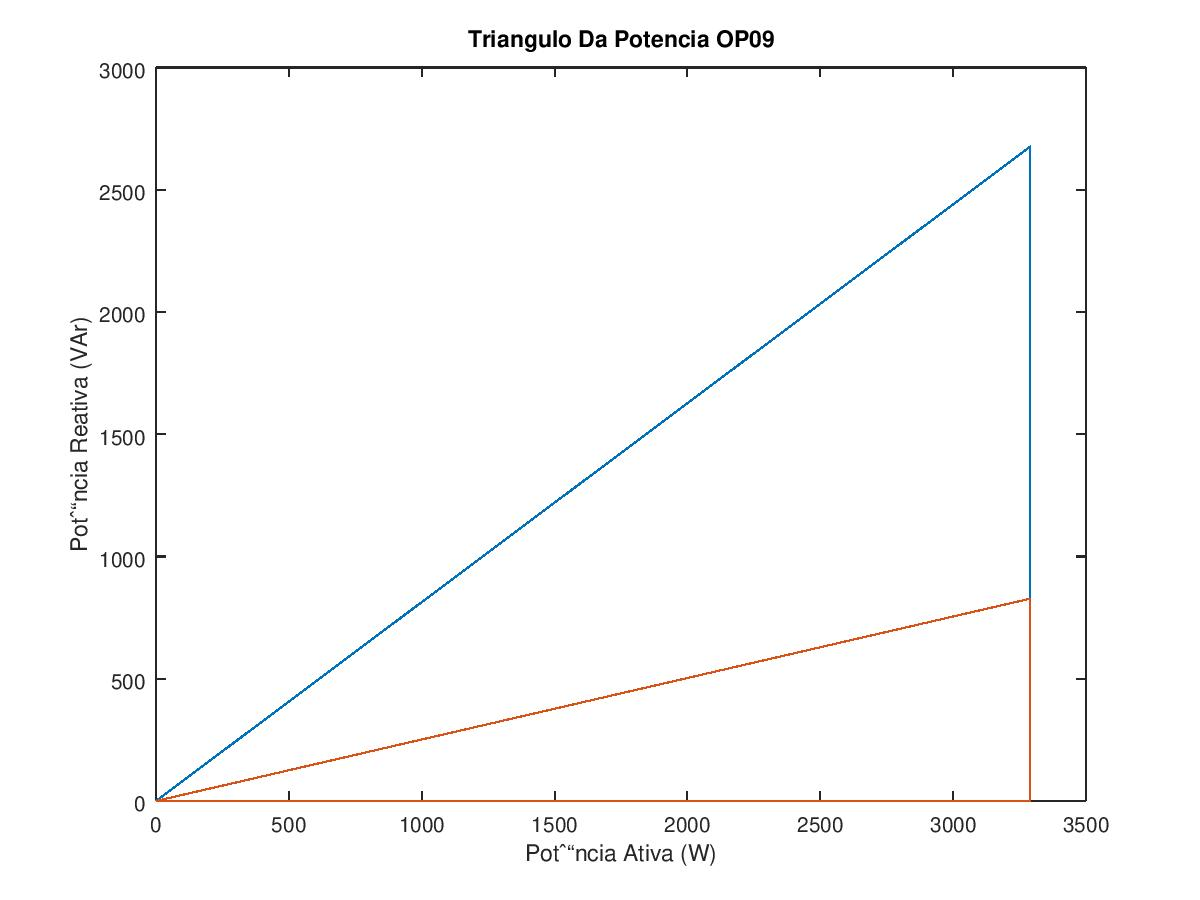
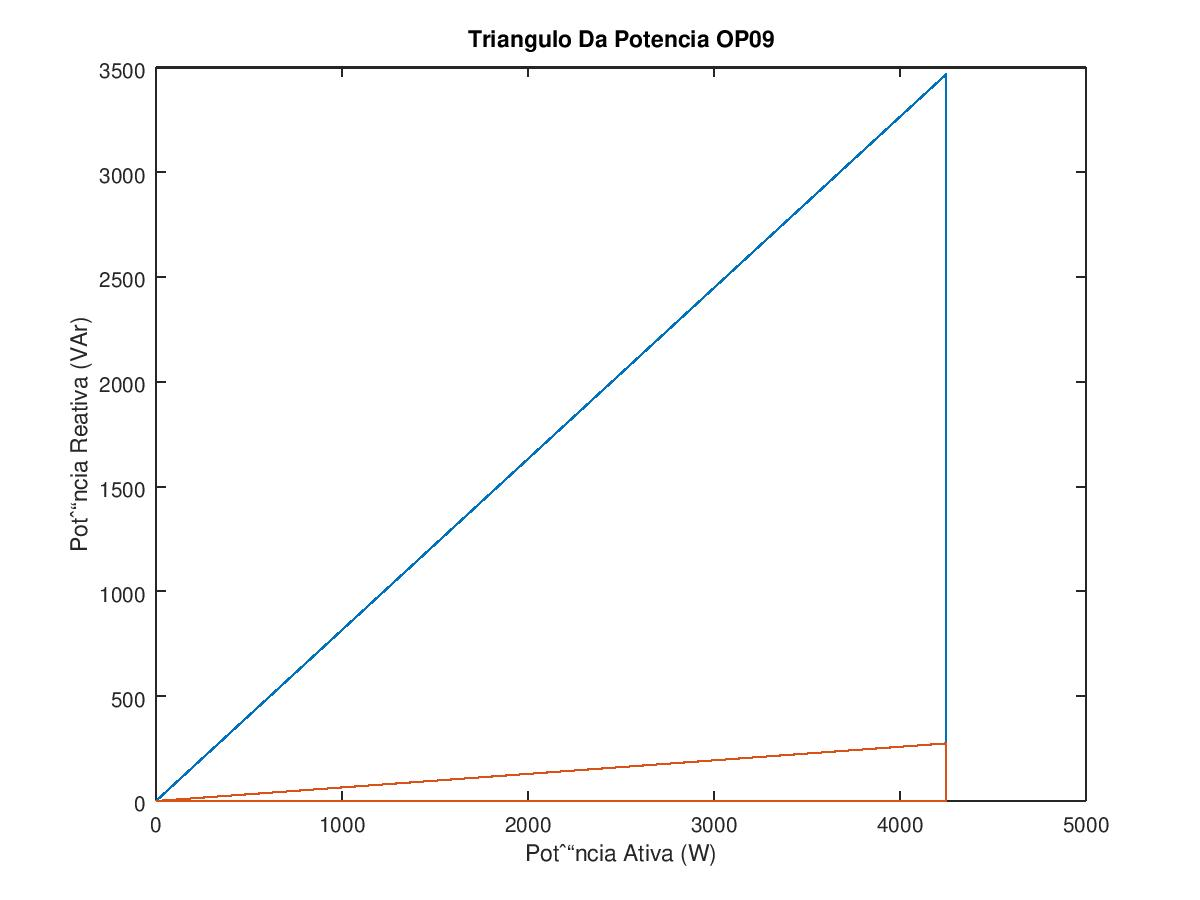
~..5

diff --git a/octave_LCE/Atividade8.m b/octave_LCE/Atividade8.m
@@ -1,9 +1,13 @@
-clear
+clear all
 clc
 
 %dados da questao
-tensao = 220;
-frequencia = 60;
+V = 220; % volts
+f = 60;  % hertz
+
+%###############################################################################
+% MUDANDO OS VALORES DOS MOTORES PARA OBTER O RESULTADO DESEJADO NA COMBINAÇAO
+%###############################################################################
 
 %potencia aderida
 pot_A = 2206.5;
@@ -27,14 +31,32 @@ P50_B = (pot_B*(50/100))/(61/100);
 P75_B = (pot_B*(75/100))/(65/100);
 P100_B = (pot_B*(100/100))/(66/100);
 
+################################################################################
 %carga S = P + iQ por rendimento% do motor
-S50_A = P50_A*fp50_A + i*P50_A*sin(acos(fp50_A));
-S75_A = P75_A*fp75_A + i*P75_A*sin(acos(fp75_A));
-S100_A = P100_A*fp100_A + i*P100_A*sin(acos(fp100_A));
+## S50_A = P50_A*fp50_A + i*P50_A*sin(acos(fp50_A));
+## S75_A = P75_A*fp75_A + i*P75_A*sin(acos(fp75_A));
+## S100_A = P100_A*fp100_A + i*P100_A*sin(acos(fp100_A));
 
-S50_B = P50_B*fp50_B + i*P50_B*sin(acos(fp50_B));
-S75_B = P75_B*fp75_B + i*P75_B*sin(acos(fp75_B));
-S100_B = P100_B*fp100_B + i*P100_B*sin(acos(fp100_B));
+## S50_B = P50_B*fp50_B + i*P50_B*sin(acos(fp50_B));
+## S75_B = P75_B*fp75_B + i*P75_B*sin(acos(fp75_B));
+## S100_B = P100_B*fp100_B + i*P100_B*sin(acos(fp100_B));
+
+abs_S50_A = P50_A/fp50_A;
+abs_S75_A = P75_A/fp75_A;
+abs_S100_A = P100_A/fp100_A;
+
+abs_S50_B = P50_B/fp50_B;
+abs_S75_B = P75_B/fp75_B;
+abs_S100_B = P100_B/fp100_B;
+
+S50_A = abs_S50_A*exp(j*(acos(fp50_A)));
+S75_A = abs_S75_A*exp(j*(acos(fp75_A)));
+S100_A = abs_S100_A*exp(j*(acos(fp100_A)));
+
+S50_B = abs_S50_B*exp(j*(acos(fp50_B)));
+S75_B = abs_S75_B*exp(j*(acos(fp75_B)));
+S100_B = abs_S100_B*exp(j*(acos(fp100_B)));
+
 
 %carga S das respectivas combinações
 OP01 = S50_A + S50_B;
@@ -46,6 +68,7 @@ OP06 = S75_A + S100_B;
 OP07 = S100_A + S50_B;
 OP08 = S100_A + S75_B;
 OP09 = S100_A + S100_B;
+disp('Vector do valor S das combinacoes')
 vector_OP = [OP01 OP02 OP03 OP04 OP05 OP06 OP07 OP08 OP09]'
 
 %valor absoluto das cargas
@@ -58,6 +81,7 @@ S06 = abs(OP06);
 S07 = abs(OP07);
 S08 = abs(OP08);
 S09 = abs(OP09);
+disp('Vector do valor abs de S das combinacoes')
 vector_S = [S01 S02 S03 S04 S05 S06 S07 S08 S09]'
 
 %fatores de potencias de cada carga
@@ -70,6 +94,7 @@ FP06 = real(OP06)/S06;
 FP07 = real(OP07)/S07;
 FP08 = real(OP08)/S08;
 FP09 = real(OP09)/S09;
+disp('Vector do FS das combinacoes')
 vector_FP = [FP01 FP02 FP03 FP04 FP05 FP06 FP07 FP08 FP09]'
 
 %potencia reativa das cargas
@@ -82,15 +107,19 @@ Q06 = imag(OP06);
 Q07 = imag(OP07);
 Q08 = imag(OP08);
 Q09 = imag(OP09);
+disp('Vector Q das combinacoes')
 vector_Q = [Q01 Q02 Q03 Q04 Q05 Q06 Q07 Q08 Q09]'
 
 %calculando o valor da capacitancia para corrigir a potencia reativa
-capacitor_correcao_geral = (vector_Q)/2*pi*frequencia*tensao^2
+disp('Vector das compensacoes dos capacitores')
+capacitor_correcao_geral = (vector_Q)/2*pi*f*V^2
 
 %capacitancia da correcao de menor valor de FP
+disp('capacitor da operacao 1, com menor valor de FP')
 c_correcao_01 = capacitor_correcao_geral(1,1)
 
 %corrigindo todas as cargas em paralelo com a capacitancia de menor valor de FP
+disp('Vector da correcao com uso do capacitor da operacao 1, com menor valor de FP')
 OP01_c = OP01 - j*imag(OP01);
 OP02_c = OP02 - j*imag(OP01);
 OP03_c = OP03 - j*imag(OP01);
@@ -103,6 +132,7 @@ OP09_c = OP09 - j*imag(OP01);
 vector_OP_c = [OP01_c OP02_c OP03_c OP04_c OP05_c OP06_c OP07_c OP08_c OP09_c]'
 
 %novos valores de fator de potencia apos a correcao da potencia reativa por meio do capacitor
+disp('Vector dos FP, apos a correcao com capacitor de menor FP')
 FP01_c = (real(OP01_c)/abs(OP01_c));
 FP02_c = (real(OP02_c)/abs(OP02_c));
 FP03_c = (real(OP03_c)/abs(OP03_c));
@@ -114,4 +144,12 @@ FP08_c = (real(OP08_c)/abs(OP08_c));
 FP09_c = (real(OP09_c)/abs(OP09_c));
 vector_FP_c = [FP01_c FP02_c FP03_c FP04_c FP05_c FP06_c FP07_c FP08_c FP09_c]'
 
+%plotando o triangulo de potencia
+plot([0 real(OP09) real(OP09) 0],[0 0 imag(OP09) 0],[0 real(OP09_c) real(OP09_c) 0],[0 0 imag(OP09_c) 0])
+xlabel('Potência Ativa (W)')
+ylabel('Potência Reativa (VAr)')
+title('Triangulo Da Potencia OP09')
+
+%salvando o grafico em JPG
+saveas(gca, 'grafico_8.jpg', 'jpg')
 

diff --git a/octave_LCE/Atividade9.m b/octave_LCE/Atividade9.m
@@ -1,7 +1,9 @@
+clear all
+clc
 
 %dados da questao
-tensao = 220;
-frequencia = 60;
+V = 220; % volts
+f = 60;  % hertz
 
 %###############################################################################
 % MUDANDO OS VALORES DOS MOTORES PARA OBTER O RESULTADO DESEJADO NA COMBINAÇAO
@@ -29,7 +31,7 @@ P50_B = (pot_B*(50/100))/(61/100);
 P75_B = (pot_B*(75/100))/(65/100);
 P100_B = (pot_B*(100/100))/(66/100);
 
-%###############################################################################
+################################################################################
 
 %carga S = P + iQ por rendimento% do motor
 ## S50_A = P50_A*fp50_A + i*P50_A*sin(acos(fp50_A));
@@ -110,7 +112,7 @@ vector_Q = [Q01 Q02 Q03 Q04 Q05 Q06 Q07 Q08 Q09]'
 
 %calculando o valor da capacitancia para corrigir a potencia reativa
 disp('Vector das compensacoes dos capacitores')
-capacitor_correcao_geral = (vector_Q)/2*pi*frequencia*tensao^2
+capacitor_correcao_geral = (vector_Q)/2*pi*f*V^2
 
 %capacitancia da correcao de menor valor de FP
 disp('capacitor da operacao 1, com menor valor de FP')
@@ -149,4 +151,4 @@ ylabel('Potência Reativa (VAr)')
 title('Triangulo Da Potencia OP09')
 
 %salvando o grafico em JPG
-saveas(gca, 'grafico_9_c.jpg', 'jpg')
+saveas(gca, 'grafico_9.jpg', 'jpg')

diff --git a/octave_LCE/Atividade7.m b/octave_LCE/Atividade7.m
@@ -1,23 +1,36 @@
-clear
+clear all
+clc
 
-%potencia aderida
+%dados da questao
+V = 220; % volts
+
+% potencia aderida
 pot = 2206.5;
-%fatores de potencia por rendimento% do motor
+
+% fatores de potencia por rendimento% do motor
 fp50 = 0.68;
 fp75 = 0.77;
 fp100 = 0.83;
-%potencia ativa P por rendimento% do motor
+
+% potencia ativa P por rendimento% do motor
 P50 = (pot*(50/100))/(77/100);
 P75 = (pot*(75/100))/(81/100);
 P100 = (pot*(100/100))/(81.5/100);
+
+% valor absoluto de S
+abs_S50 = P50/fp50;
+abs_S75 = P75/fp75;
+abs_S100 = P100/fp100;
+
 %carga S = P + iQ por rendimento% do motor
-S50 = P50*fp50 + i*P50*sin(acos(fp50))
-S75 = P75*fp75 + i*P75*sin(acos(fp75))
-S100 = P100*fp100 + i*P100*sin(acos(fp100))
+S50 = abs_S50*exp(j*(acos(fp50)));
+S75 = abs_S75*exp(j*(acos(fp75)));
+S100 = abs_S100*exp(j*(acos(fp100)));
+
 %corrente usada por rendimento% do motor
-I50 = conj(S50/220);
-I75 = conj(S75/220);
-I100 = conj(S100/220);
+I50 = conj(S50/V);
+I75 = conj(S75/V);
+I100 = conj(S100/V);
 
 %plotando graficos do diagrama fasorial S
 subplot(3,3,1)
@@ -50,3 +63,6 @@ subplot(3,3,6)
 plot([0 real(I100)],[0 imag(I100)])
 xlabel('Real'),ylabel('Imaginário')
 title('Diagrama Fasorial I100%')
+
+%salvando o grafico em JPG
+saveas(gca, 'grafico_7.jpg', 'jpg')

diff --git a/octave_LCE/Atividade1.m b/octave_LCE/Atividade1.m
@@ -1,4 +1,5 @@
 clear all
+clc
 
 %imprimindo V em diferentes formatos
 V1 = 50*exp(j*deg2rad(36.87))
